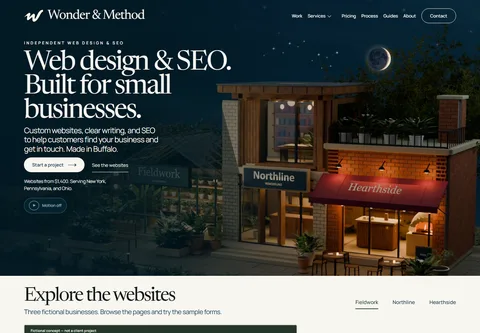
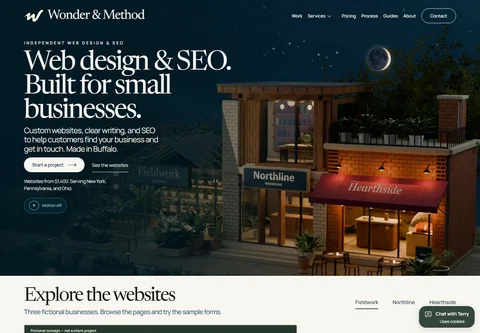
Keep chat and back-to-top controls available while browsing

Changed region(s): [[0.8438, 0.9009, 1.0, 0.991]]

diff --git a/src/assets/page-navigation.js b/src/assets/page-navigation.js
@@ -19,44 +19,27 @@ if(header){
   root.classList.add('page-tools-ready');
   topLink.hidden=true;
   const floating=[topLink,document.querySelector('.support-chat-launch')].filter(Boolean);
-  const reading='a[href],button,input:not([type="hidden"]),textarea,select,summary,video,audio,p,li,dt,dd,h1,h2,h3,h4,h5,h6,label,legend,th,td,figcaption,blockquote';
-  const blocked=control=>{
+  const blocked=(control,active)=>{
+   if(!active?.matches('a[href],button,summary,video,audio,[tabindex]:not([tabindex="-1"])')||active===control||active.closest('.support-chat,.site-tools'))return false;
    if(control.hidden||getComputedStyle(control).display==='none')return false;
-   const r=control.getBoundingClientRect();
-   if(!r.width||!r.height)return false;
-   // A bounded local hit test works for dynamic content without walking the
-   // full document on every scroll. Whole text blocks yield conservatively.
-   const left=Math.max(0,r.left-4),right=Math.min(innerWidth-1,r.right+4),top=Math.max(0,r.top-4),bottom=Math.min(innerHeight-1,r.bottom+4);
-   const cols=Math.ceil((right-left)/20),rows=Math.ceil((bottom-top)/12);
-   for(let y=0;y<=rows;y++)for(let x=0;x<=cols;x++){
-    for(const hit of document.elementsFromPoint(left+(right-left)*x/Math.max(1,cols),top+(bottom-top)*y/Math.max(1,rows))){
-     if(hit.closest('.support-chat,.site-tools,.site-header')||!hit.closest('main,footer'))continue;
-     const content=hit.closest(reading);
-     if(content)return true;
-     if([...hit.childNodes].some(node=>node.nodeType===3&&node.textContent.trim()))return true;
-    }
-   }
-   return false;
+   const r=control.getBoundingClientRect(),target=active.getBoundingClientRect();
+   return Math.min(r.right,target.right)>Math.max(r.left,target.left)-4&&Math.min(r.bottom,target.bottom)>Math.max(r.top,target.top)-4;
   };
-  let queued=false,scrolling=false,scrollIdle;
+  let queued=false;
   const updateTools=()=>{
    queued=false;
    const active=document.activeElement;
    // Separate show/hide thresholds prevent chatter near the top boundary.
    if(active!==topLink)topLink.hidden=scrollY<(topLink.hidden?520:360);
    root.classList.toggle('editing-form',!!active?.matches('input:not([type="hidden"]),textarea,select'));
-   // Once a control yields, keep it hidden for the rest of this scroll gesture.
-   // Reappearing in every gap between text lines caused visible flicker.
-   const states=floating.map(control=>active!==control&&((scrolling&&control.classList.contains('is-obstructing-controls'))||blocked(control)));
+   // Keep tools discoverable during ordinary reading and scrolling. Yield only
+   // to the visitor's focused control; content hit tests hid chat on most pages.
+   const states=floating.map(control=>blocked(control,active));
    floating.forEach((control,index)=>control.classList.toggle('is-obstructing-controls',states[index]));
   };
   const scheduleTools=()=>{if(!queued){queued=true;requestAnimationFrame(updateTools);}};
   updateTools();
-  window.addEventListener('scroll',()=>{
-   scrolling=true;clearTimeout(scrollIdle);
-   scrollIdle=setTimeout(()=>{scrolling=false;scheduleTools();},300);
-   scheduleTools();
-  },{passive:true});
+  window.addEventListener('scroll',scheduleTools,{passive:true});
   if('ResizeObserver' in window){const sizes=new ResizeObserver(scheduleTools);floating.forEach(control=>sizes.observe(control));}
   window.addEventListener('resize',scheduleTools,{passive:true});
   window.visualViewport?.addEventListener('resize',scheduleTools,{passive:true});

diff --git a/src/assets/support-chat.js b/src/assets/support-chat.js
@@ -70,24 +70,5 @@ if(chatRoot){
    timeout=setTimeout(unavailable,15000);document.head.append(script);
   });
  }
- if(launcher){
-  const hero=document.querySelector('.city-hero');
-  if(hero){
-   const updateHero=()=>{const r=hero.getBoundingClientRect();chatRoot.classList.toggle('support-chat--hero-visible',r.bottom>0&&r.top<innerHeight);toolsChanged();};
-   updateHero();
-   if('IntersectionObserver' in window)new IntersectionObserver(updateHero).observe(hero);
-   else {window.addEventListener('scroll',updateHero,{passive:true});window.addEventListener('resize',updateHero,{passive:true});}
-  }
-  const compact=matchMedia('(max-width:767px), (max-height:520px)');
-  let idle;
-  const untuck=()=>{clearTimeout(idle);launcher.classList.remove('is-tucked');toolsChanged();};
-  window.addEventListener('scroll',()=>{
-   if(!compact.matches||document.activeElement===launcher){untuck();return;}
-   launcher.classList.add('is-tucked');
-   clearTimeout(idle);idle=setTimeout(untuck,300);
-  },{passive:true});
-  compact.addEventListener('change',untuck);
-  launcher.addEventListener('focus',untuck);
- }
  toolsChanged();
 }

diff --git a/src/assets/support-chat.css b/src/assets/support-chat.css
@@ -18,7 +18,6 @@
  .support-chat-launch :is(span,small){position:absolute;width:1px;height:1px;overflow:hidden;clip-path:inset(50%);white-space:nowrap}
 }
 .support-chat-launch[aria-disabled=true]{cursor:progress}
-.support-chat--hero-visible .support-chat-launch:not(:focus),.support-chat-launch.is-tucked:not(:focus){visibility:hidden;pointer-events:none}
 .support-chat--inline{position:static!important;right:auto;bottom:auto;max-width:none}
 .support-chat--inline .support-chat-fallback{max-width:48rem;margin:1rem auto}
 .studio-site [data-chat-open]{min-height:44px;font:inherit}

diff --git a/src/assets/site-refresh.css b/src/assets/site-refresh.css
@@ -550,7 +550,6 @@ html.page-tools-ready{scroll-padding-bottom:calc(6rem + env(safe-area-inset-bott
 .page-tools-ready.chat-is-open .back-to-top,
 html:has(.support-chat:not([hidden]) .support-chat-fallback:not([hidden])) .back-to-top{visibility:hidden;pointer-events:none}
 @media(max-width:767px),(max-height:520px){
- .page-tools-ready .back-to-top{display:none!important}
  .studio-site main{padding-bottom:5rem}
 }
 /* Every retained financial table shares the same column alignment. */
